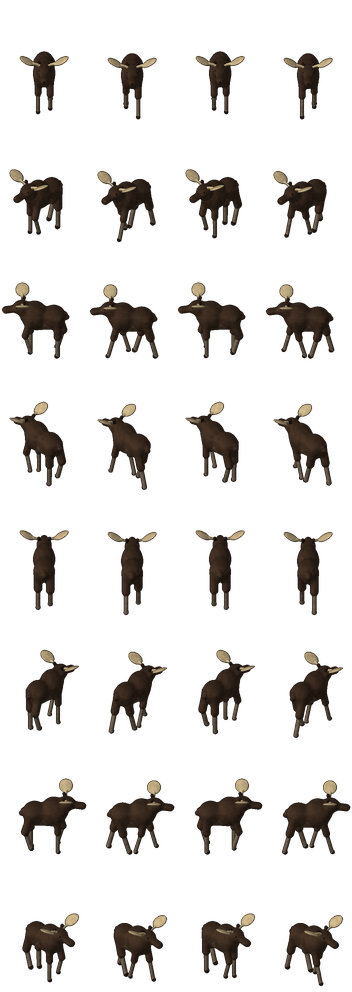
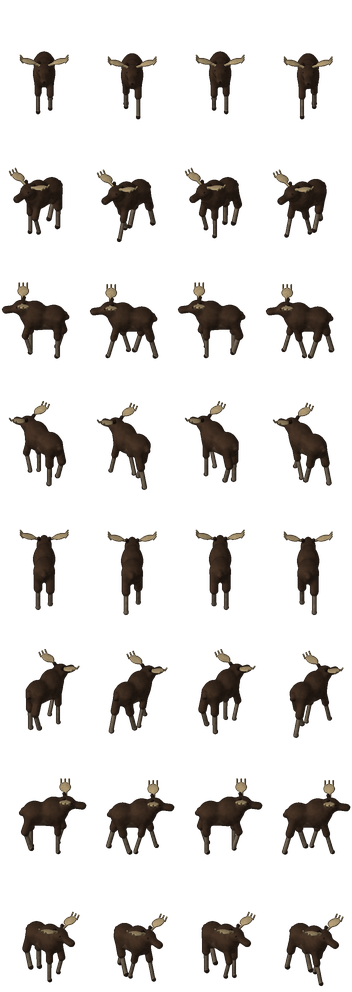
Moose antlers with tines; slightly larger wolf/coyote/deer/rabbit/squirrel

diff --git a/src/game/engine.ts b/src/game/engine.ts
@@ -3979,11 +3979,11 @@ export function mountGame(canvas: HTMLCanvasElement, mini: HTMLCanvasElement): G
 		if (enemy.variant === "jumper") return Math.round(NPC_H * .96);
 		if (enemy.variant === "scout") return Math.round(NPC_H * .92);
 		if (enemy.kind === "moose") return Math.round(NPC_H * 1.35);
-		if (enemy.kind === "deer") return Math.round(NPC_H * .78);
-		if (enemy.kind === "wolf") return Math.round(NPC_H * .62);
-		if (enemy.kind === "coyote") return Math.round(NPC_H * .55);
-		if (enemy.kind === "rabbit") return Math.round(NPC_H * .44);
-		if (enemy.kind === "squirrel") return Math.round(NPC_H * .36);
+		if (enemy.kind === "deer") return Math.round(NPC_H * .84);
+		if (enemy.kind === "wolf") return Math.round(NPC_H * .76);
+		if (enemy.kind === "coyote") return Math.round(NPC_H * .68);
+		if (enemy.kind === "rabbit") return Math.round(NPC_H * .5);
+		if (enemy.kind === "squirrel") return Math.round(NPC_H * .42);
 		return NPC_H;
 	}
 	function folkHeight(npc) {
@@ -6042,7 +6042,7 @@ export function mountGame(canvas: HTMLCanvasElement, mini: HTMLCanvasElement): G
 		beastAt: (id, kind, x, y) => {
 			const e = world?.enemies.find((q) => q.id === id);
 			if (!e) return;
-			e.kind = kind; e.x = x; e.y = y; e.homeX = x; e.homeY = y; e.temper = "timid"; e.aggro = false; e.dead = false; e.hp = Math.max(e.hp, 10); e.path = null;
+			e.kind = kind; e.x = x; e.y = y; e.homeX = x; e.homeY = y; e.temper = "hostile"; e.aggro = true; e.dead = false; e.hp = Math.max(e.hp, 10); e.path = null;
 		},
 		setLook: (look) => {
 			if (player) player.look = look;

diff --git a/merge/render_animals.py b/merge/render_animals.py
@@ -55,7 +55,7 @@ def leg(hip, foot, l1, l2, bend):
 PAL = {
   "coyote": dict(fur=(158, 124, 86), dark=(96, 74, 54), belly=(214, 196, 162), nose=(34, 28, 24), tip=(52, 42, 34), leg=(140, 108, 74)),
   "wolf":   dict(fur=(128, 126, 122), dark=(78, 76, 74), belly=(206, 202, 194), nose=(26, 24, 24), tip=(96, 94, 90), leg=(118, 114, 108)),
-  "moose":  dict(fur=(74, 54, 40), dark=(42, 30, 24), belly=(98, 76, 58), nose=(36, 28, 24), tip=(60, 44, 34), leg=(132, 116, 96), antler=(188, 168, 128)),
+  "moose":  dict(fur=(74, 54, 40), dark=(42, 30, 24), belly=(98, 76, 58), nose=(36, 28, 24), tip=(60, 44, 34), leg=(132, 116, 96), antler=(164, 144, 108)),
   "deer":   dict(fur=(148, 102, 64), dark=(96, 66, 42), belly=(226, 214, 192), nose=(30, 24, 22), tip=(236, 230, 220), leg=(132, 92, 58), antler=(196, 178, 140)),
   "rabbit": dict(fur=(150, 116, 84), dark=(100, 76, 56), belly=(222, 210, 190), nose=(70, 44, 44), tip=(240, 236, 228), leg=(140, 108, 78), ear=(170, 132, 104)),
   "squirrel": dict(fur=(168, 92, 48), dark=(110, 58, 30), belly=(230, 210, 180), nose=(40, 26, 22), tip=(186, 108, 60), leg=(150, 82, 44), ear=(176, 100, 56)),
@@ -96,8 +96,13 @@ def quad_parts(n, frame):
         for side in (-1, 1):
             base = hc + np.array([-s["hs"] * .1, side * s["hs"] * .6, s["hs"] * .7])
             parts.append(("c", (base, base + np.array([0, side * .14, .05]), .03), "antler", .02))
-            R = rotz(0) @ np.array([[1, 0, 0], [0, math.cos(side * .5), -math.sin(side * .5)], [0, math.sin(side * .5), math.cos(side * .5)]])
-            parts.append(("e", (base + np.array([0, side * .3, .12]), np.array([.17, .2, .035]), R), "antler", .03))
+            tilt = side * .25
+            R = np.array([[1, 0, 0], [0, math.cos(tilt), -math.sin(tilt)], [0, math.sin(tilt), math.cos(tilt)]])
+            pc = base + np.array([-.02, side * .26, .1])
+            parts.append(("e", (pc, np.array([.14, .17, .03]), R), "antler", .03))
+            for k in range(3):   # tines along the paddle's outer edge
+                tb = pc + np.array([-.1 + k * .1, side * .14, .02])
+                parts.append(("c", (tb, tb + np.array([.0, side * .06, .09]), .018), "antler", .01))
     elif s.get("antlers") == "tine":
         for side in (-1, 1):
             base = hc + np.array([-s["hs"] * .1, side * s["hs"] * .45, s["hs"] * .75])
